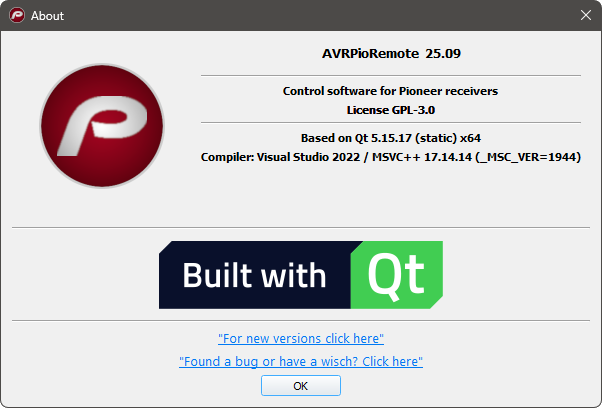
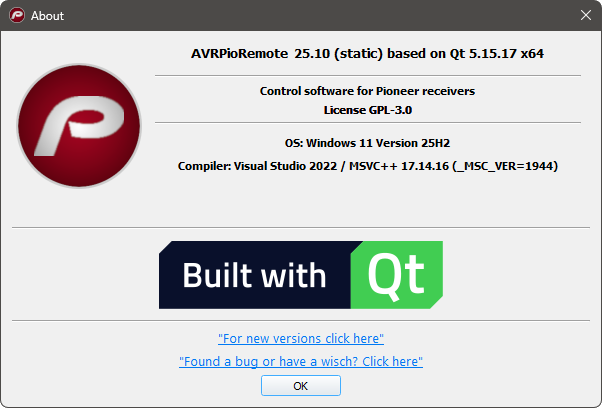
small cosmetic change

diff --git a/src/aboutdialog.cpp b/src/aboutdialog.cpp
@@ -16,8 +16,48 @@
  * along with this program.  If not, see <http://www.gnu.org/licenses/>.
 */
 #include "aboutdialog.h"
-#include "QDateTime"
+#include <QDateTime>
+#include <QSettings>
+#include <QOperatingSystemVersion>
 #include "ui_aboutdialog.h"
+
+#if defined(Q_OS_WIN)
+#include <qt_windows.h>
+#endif
+
+QString AboutDialog::prettyProductName() {
+#if QT_MAJOR_VERSION < 5
+#if defined(Q_OS_WIN)
+    QSettings m("HKEY_LOCAL_MACHINE\\SOFTWARE\\Microsoft\\Windows NT\\CurrentVersion",
+                QSettings::Registry64Format);
+
+    QString displayVersion = m.value("DisplayVersion").toString();
+
+    OSVERSIONINFOEX osver;
+    //::GetVersionEx(osver);
+    osver.dwOSVersionInfoSize = sizeof(OSVERSIONINFOEX);
+    if(!GetVersionEx((OSVERSIONINFO*)&osver)) {
+        return QSysInfo::prettyProductName();
+    }
+    const bool workstation = osver.wProductType == VER_NT_WORKSTATION;
+    QOperatingSystemVersion version = QOperatingSystemVersion::current();
+
+#define Q_WINVER(major, minor) (major << 8 | minor)
+    switch (Q_WINVER(version.majorVersion(), version.minorVersion())) {
+    case Q_WINVER(10, 0):
+        if (!displayVersion.isEmpty()) {
+            if(((workstation && version.microVersion() >= 21327) || (!workstation && version.microVersion() >= 17623)))
+                return QString(workstation ? "Windows 11" : "Windows Server 2022").append(" Version ").append(displayVersion);
+            else
+                return QString(workstation ? "Windows 10" : "Windows Server 2016").append(" Version ").append(displayVersion);
+        }
+    }
+#undef Q_WINVER
+
+#endif
+#endif
+    return QSysInfo::prettyProductName();
+}
 
 AboutDialog::AboutDialog(QWidget *parent) :
     QDialog(parent),
@@ -110,20 +150,19 @@ AboutDialog::AboutDialog(QWidget *parent) :
 #ifdef __FORCED_APP_VER
         QString(__FORCED_APP_VER)
 #else
-        date.toString("yy.MM")
-            .append(week == 0 ? QString() : QString().asprintf(".%d", week))
+    date.toString("yy.MM")
+        .append(week == 0 ? QString() : QString().asprintf(".%d", week))
 #endif
-        ));
-    ui->labelCompiler->setText(compiler);
-    ui->labelQT->setText(QString("Based on Qt ")
-    .append(qVersion())
-
-#ifdef STATIC                                   
-    .append(" (static)" )
+#ifdef STATIC
+            .append(" (static)" )
 #endif
+    .append(QString(" based on Qt ").append(qVersion())
 #ifdef Q_OS_WIN64
     .append(" x64")
 #endif
+                    )));
+    ui->labelCompiler->setText(compiler);
+    ui->labelQT->setText(QString("OS: ").append(prettyProductName())
      );
     setWindowFlags(windowFlags() & (~Qt::WindowContextHelpButtonHint));
 
@@ -131,7 +170,7 @@ AboutDialog::AboutDialog(QWidget *parent) :
     ui->labelQTLogo->setPixmap(QPixmap::fromImage(img));
     QObject::connect(ui->labelQTLogo, SIGNAL(customContextMenuRequested(QPoint)), qApp, SLOT(aboutQt()));
 
-    ui-> program->setText(qApp->applicationName());
+    ui->program->setText(qApp->applicationName());
 }
 
 AboutDialog::~AboutDialog()

diff --git a/src/aboutdialog.h b/src/aboutdialog.h
@@ -39,6 +39,7 @@ private slots:
 
 private:
     Ui::AboutDialog *ui;
+    QString prettyProductName();
 };
 
 #endif // ABOUTDIALOG_H
